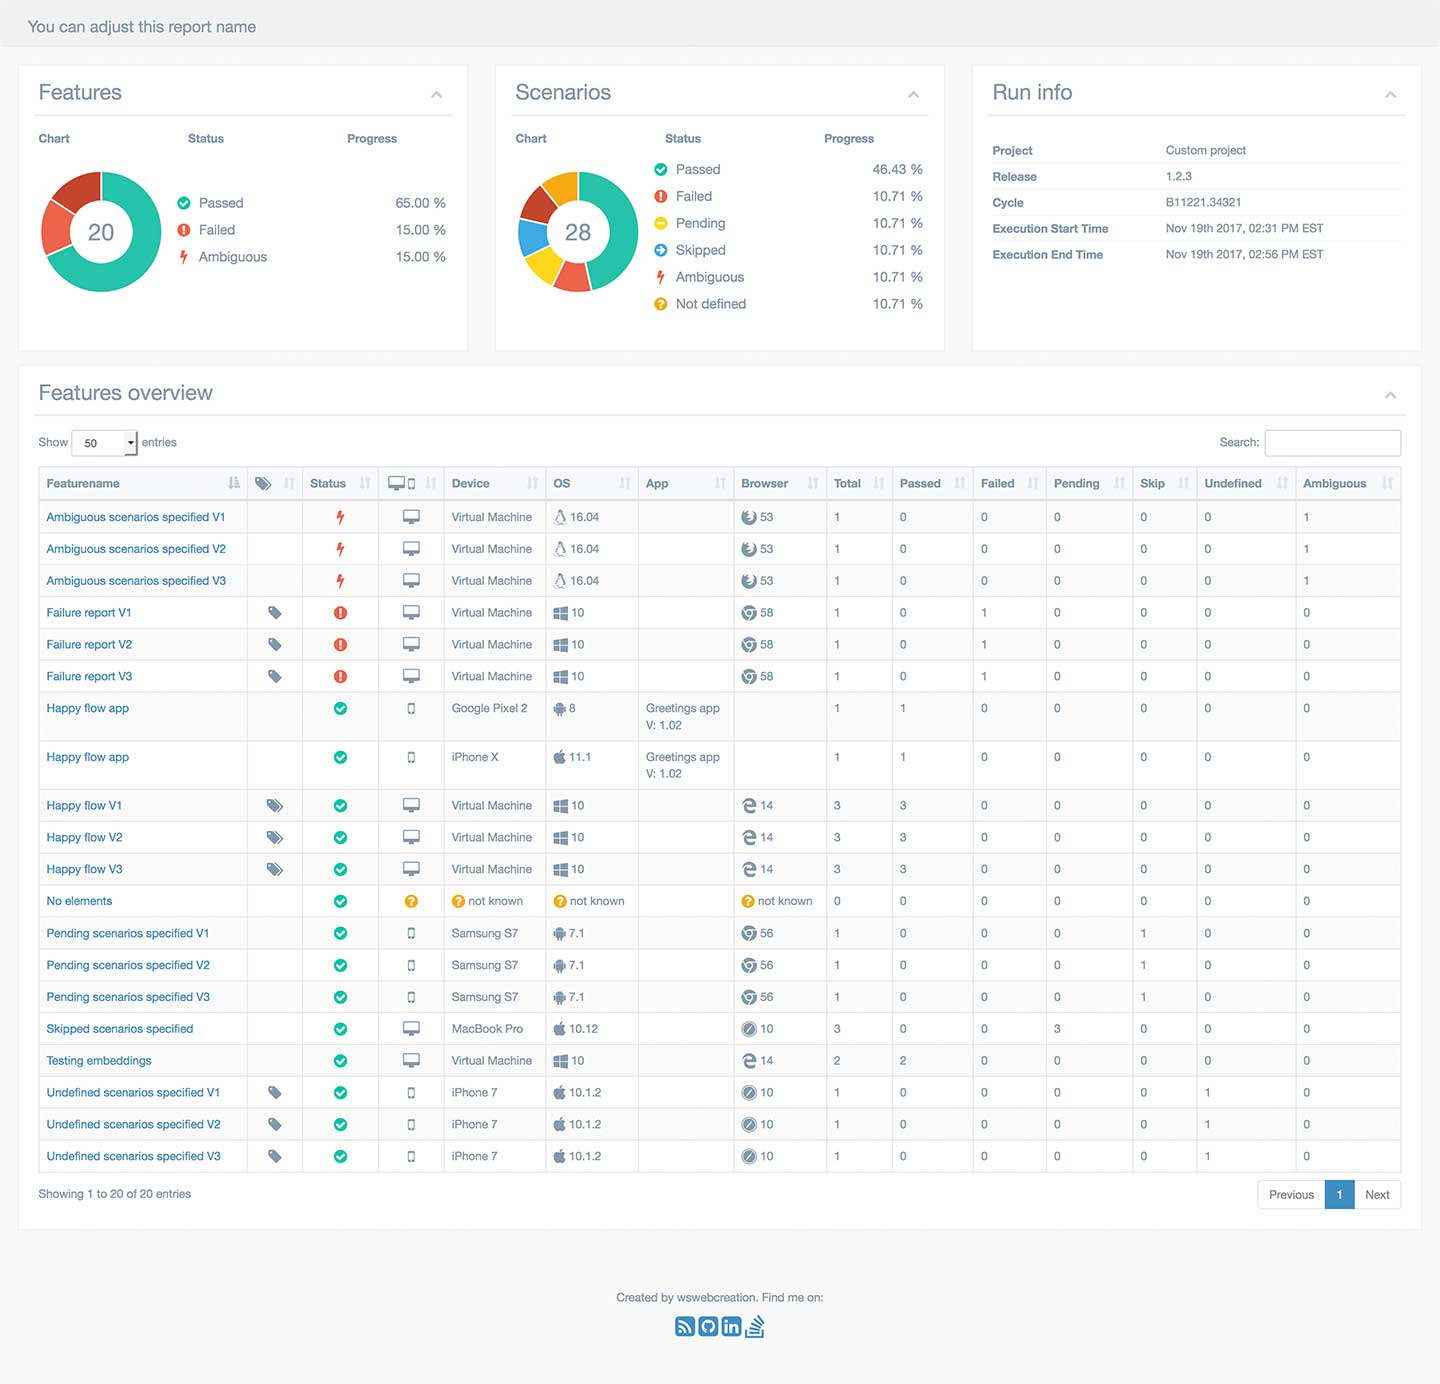
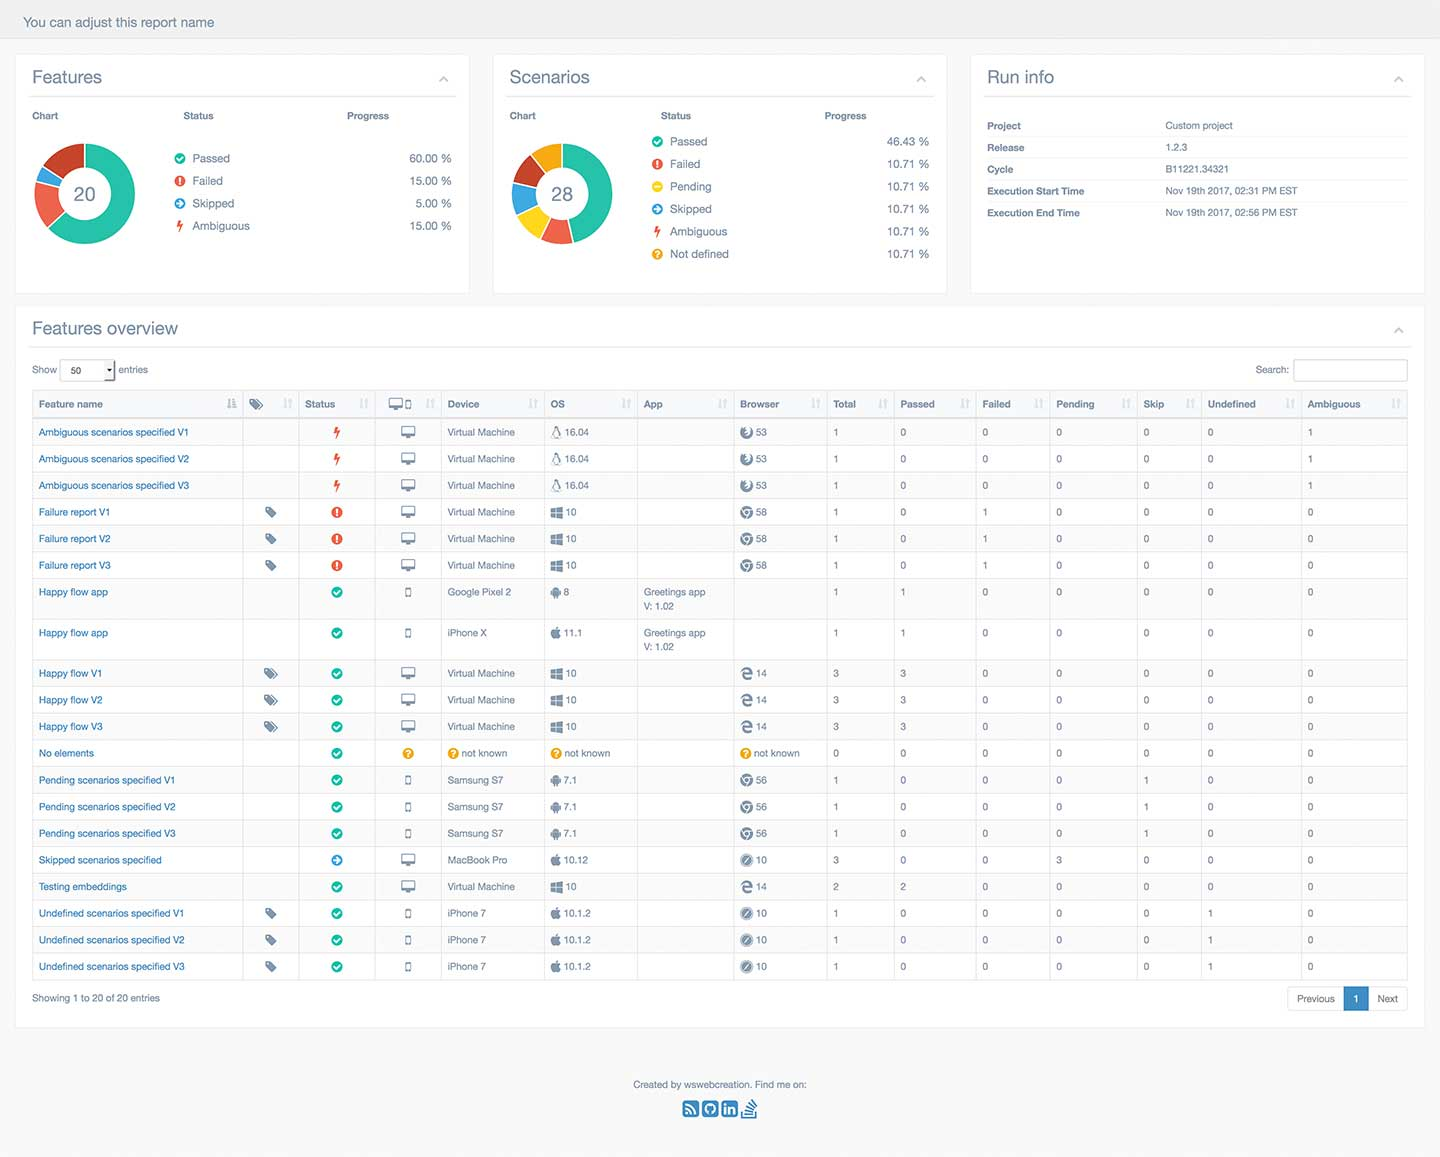
chore: update docs and prepare release

diff --git a/CHANGELOG.md b/CHANGELOG.md
@@ -1,6 +1,13 @@
 CHANGELOG
 =========
 
+<a name="1.4.1"></a>
+## [1.4.1](https://github.com/wswebcreation/multiple-cucumber-html-reporter/compare/v1.4.0...v1.4.1) (2018-01-01)
+
+### Bugfix
+
+* **fix:** fix: correctly show the skipped features on the report home page **Big thanks to [kevinkuszyk](https://github.com/kevinkuszyk)**
+
 <a name="1.4.0"></a>
 ## [1.4.0](https://github.com/wswebcreation/multiple-cucumber-html-reporter/compare/v1.3.0...v1.4.0) (2017-12-15)
 
